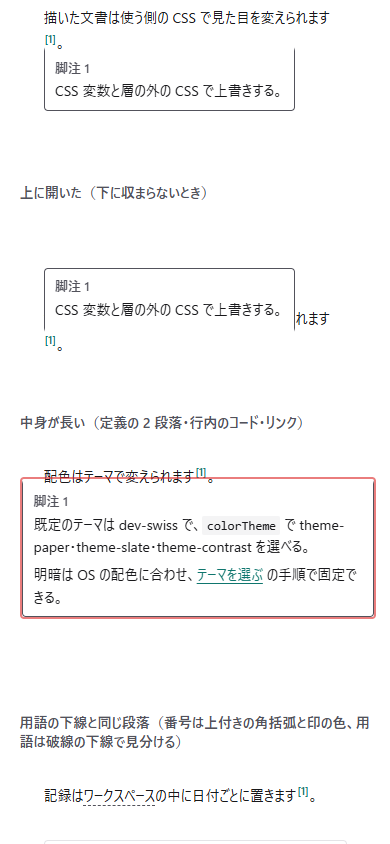
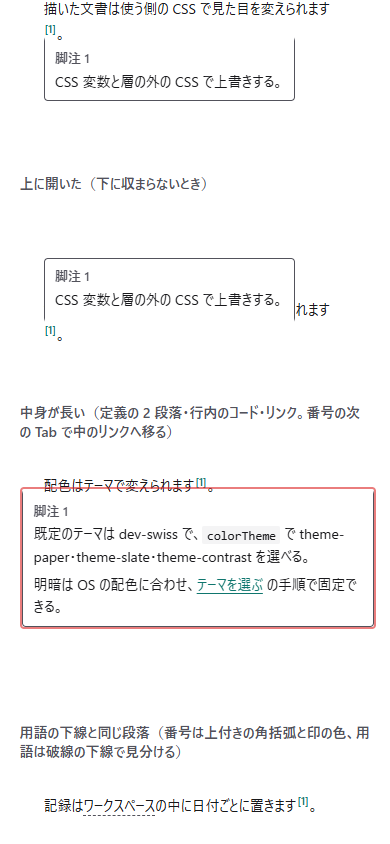
mock: 脚注のモックのコメントの閉じを修正し、リンクを持つ脚注のツールチップを role=group と aria-details にする

diff --git a/dev/mock/components/footnote/index.html b/dev/mock/components/footnote/index.html
@@ -82,11 +82,11 @@
         </article>
       </section>
 
-      <!-- 中身が長い: 定義の段落ごとに積む。高さの上限を超えるとツールチップの中をスクロールする -->
+      <!-- 中身が長い: 定義の段落ごとに積む。高さの上限を超えるとツールチップの中をスクロールする。リンクを持つ中身は用語のツールチップと同じく role="group" と aria-label にし、番号の aria-details で指す（番号の次の Tab で中のリンクへ移る） -->
       <section aria-labelledby="state-long">
-        <h2 class="catalog-label" id="state-long">中身が長い（定義の 2 段落・行内のコード・リンク）</h2>
+        <h2 class="catalog-label" id="state-long">中身が長い（定義の 2 段落・行内のコード・リンク。番号の次の Tab で中のリンクへ移る）</h2>
         <article class="mdmark catalog-tip-space-long">
-<p>配色はテーマで変えられます<sup class="mdmark-fn-ref is-open" data-mock-static><a class="mdmark-fn-link" id="l-fnref-1-0" href="#l-fn-1" aria-describedby="l-tip-1-0"><span class="mdmark-visually-hidden">脚注 </span>1</a><span class="mdmark-fn-tip" id="l-tip-1-0" role="tooltip"><span class="mdmark-fn-tip-title">脚注 1</span><span class="mdmark-fn-tip-body">既定のテーマは dev-swiss で、<code>colorTheme</code> で theme-paper・theme-slate・theme-contrast を選べる。</span><span class="mdmark-fn-tip-body">明暗は OS の配色に合わせ、<a href="#state-long">テーマを選ぶ</a> の手順で固定できる。</span></span></sup>。</p>
+<p>配色はテーマで変えられます<sup class="mdmark-fn-ref is-open" data-mock-static><a class="mdmark-fn-link" id="l-fnref-1-0" href="#l-fn-1" aria-details="l-tip-1-0"><span class="mdmark-visually-hidden">脚注 </span>1</a><span class="mdmark-fn-tip" id="l-tip-1-0" role="group" aria-label="脚注 1"><span class="mdmark-fn-tip-title">脚注 1</span><span class="mdmark-fn-tip-body">既定のテーマは dev-swiss で、<code>colorTheme</code> で theme-paper・theme-slate・theme-contrast を選べる。</span><span class="mdmark-fn-tip-body">明暗は OS の配色に合わせ、<a href="#state-long">テーマを選ぶ</a> の手順で固定できる。</span></span></sup>。</p>
         </article>
       </section>
 
@@ -145,7 +145,7 @@
         </article>
       </section>
 
-      <!-- 機能のオフ: 設定か文書の <!-- features: -footnotes --> でオフにすると、参照も定義も書いた文字のまま -->
+      <!-- 機能のオフ: 設定か文書の features のマーカーでオフにすると、参照も定義も書いた文字のまま -->
       <section aria-labelledby="state-off">
         <h2 class="catalog-label" id="state-off">脚注の機能をオフにした文書（書いた文字のまま、定義の行も書いた位置に残る）</h2>
         <article class="mdmark">

diff --git a/dev/mock/refs/311/assets/footnote.js b/dev/mock/refs/311/assets/footnote.js
@@ -95,11 +95,13 @@
     });
   }
 
-  // Esc: 開いているツールチップを閉じる。フォーカスは番号に残す
+  // Esc: 開いているツールチップを閉じる。フォーカスは番号に残し、ツールチップの中のリンクにあったときは番号へ戻す
   document.addEventListener("keydown", (event) => {
     if (event.key !== "Escape") return;
     for (const ref of refs) {
       if (!ref.classList.contains("is-open")) continue;
+      // ツールチップの中のリンクにフォーカスがあったときは番号へ戻す
+      if (ref.querySelector(".mdmark-fn-tip").contains(document.activeElement)) ref.querySelector(".mdmark-fn-link").focus();
       close(ref);
       ref.classList.add("is-dismissed");
     }
